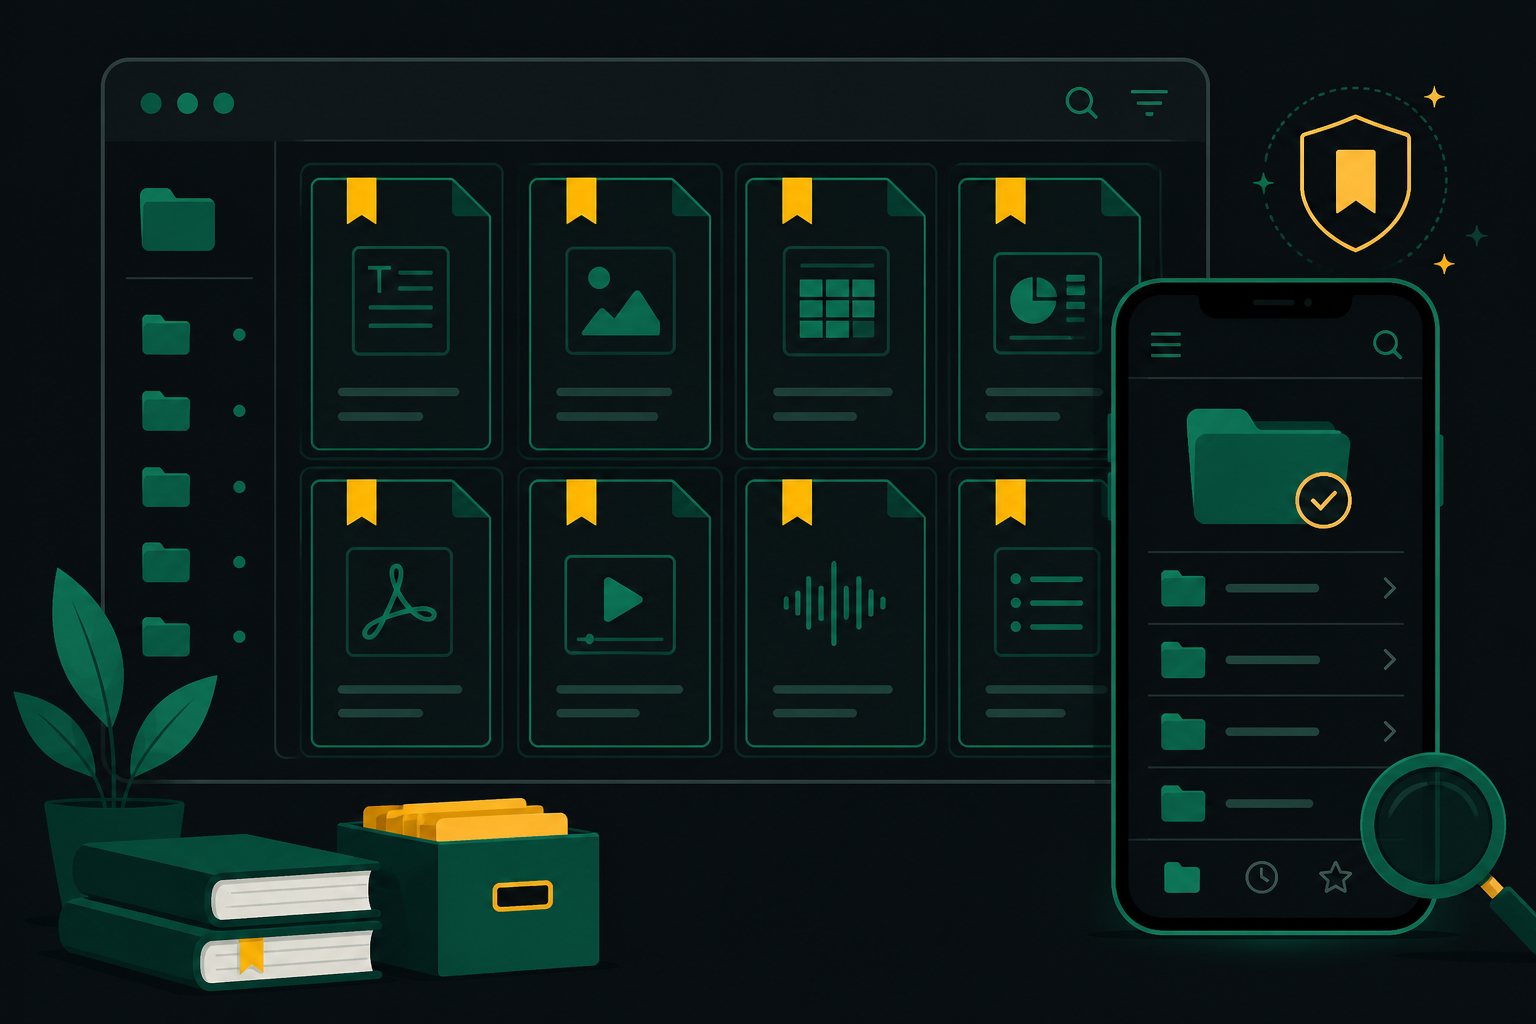
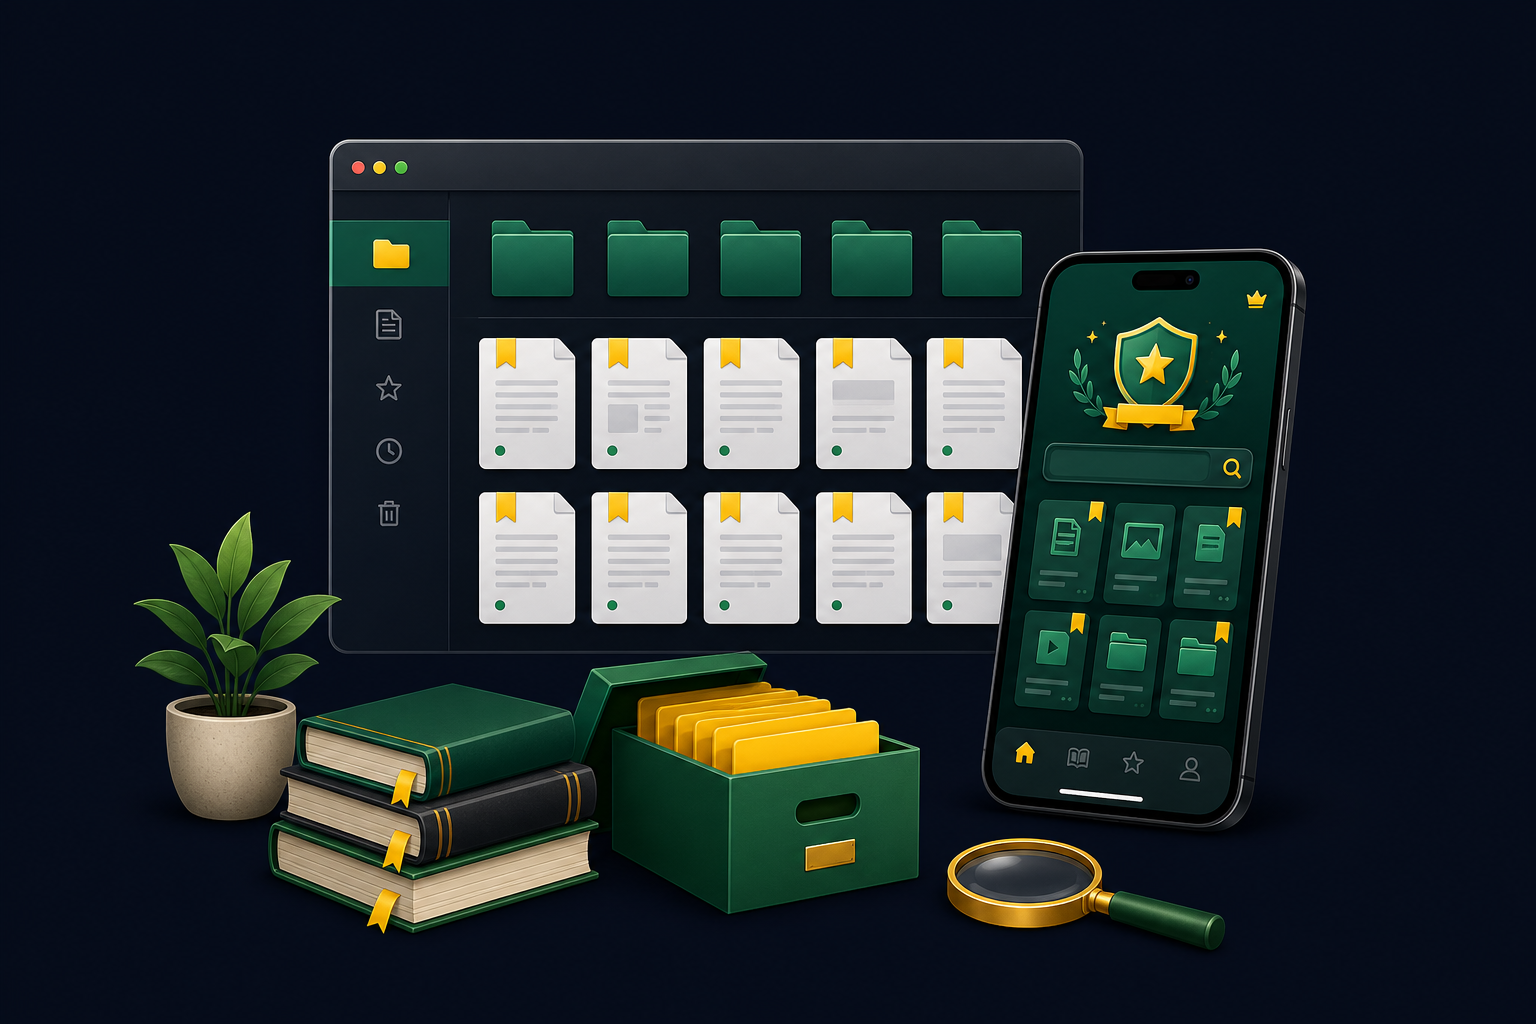
fix(pitch): show full slide art with contain fit
Stop cropping visuals via object-fit cover; pad frames and regenerate edge-tight solution/market PNGs.

diff --git a/docs/pitch/ezoa-to-pitch-deck.html b/docs/pitch/ezoa-to-pitch-deck.html
@@ -142,12 +142,18 @@
       border: 1px solid var(--line);
       background: rgba(0, 0, 0, 0.35);
       box-shadow: 0 18px 48px rgba(0, 0, 0, 0.35);
+      display: flex;
+      align-items: center;
+      justify-content: center;
+      padding: clamp(0.75rem, 1.8vw, 1.35rem);
     }
 
     .slide-visual img {
       width: 100%;
       height: 100%;
-      object-fit: cover;
+      max-width: 100%;
+      max-height: 100%;
+      object-fit: contain;
       object-position: center;
       display: block;
     }
